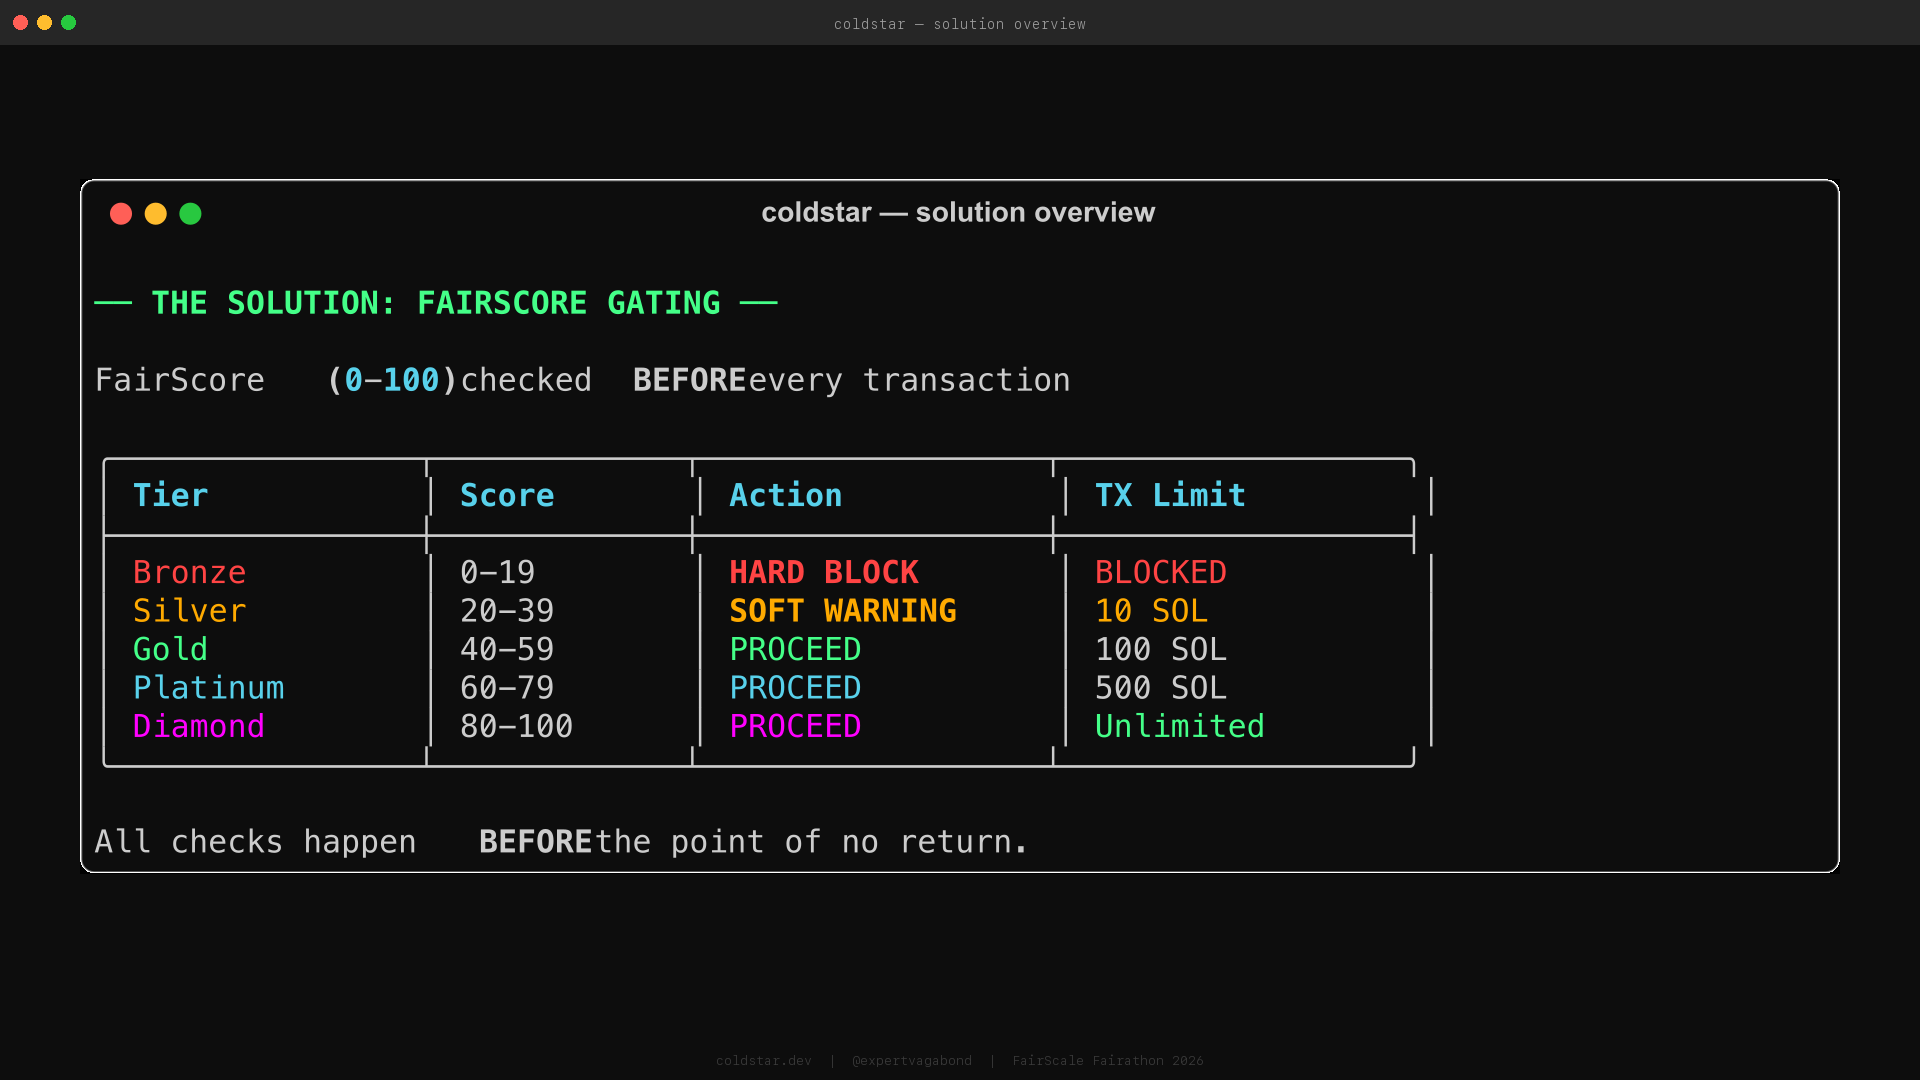
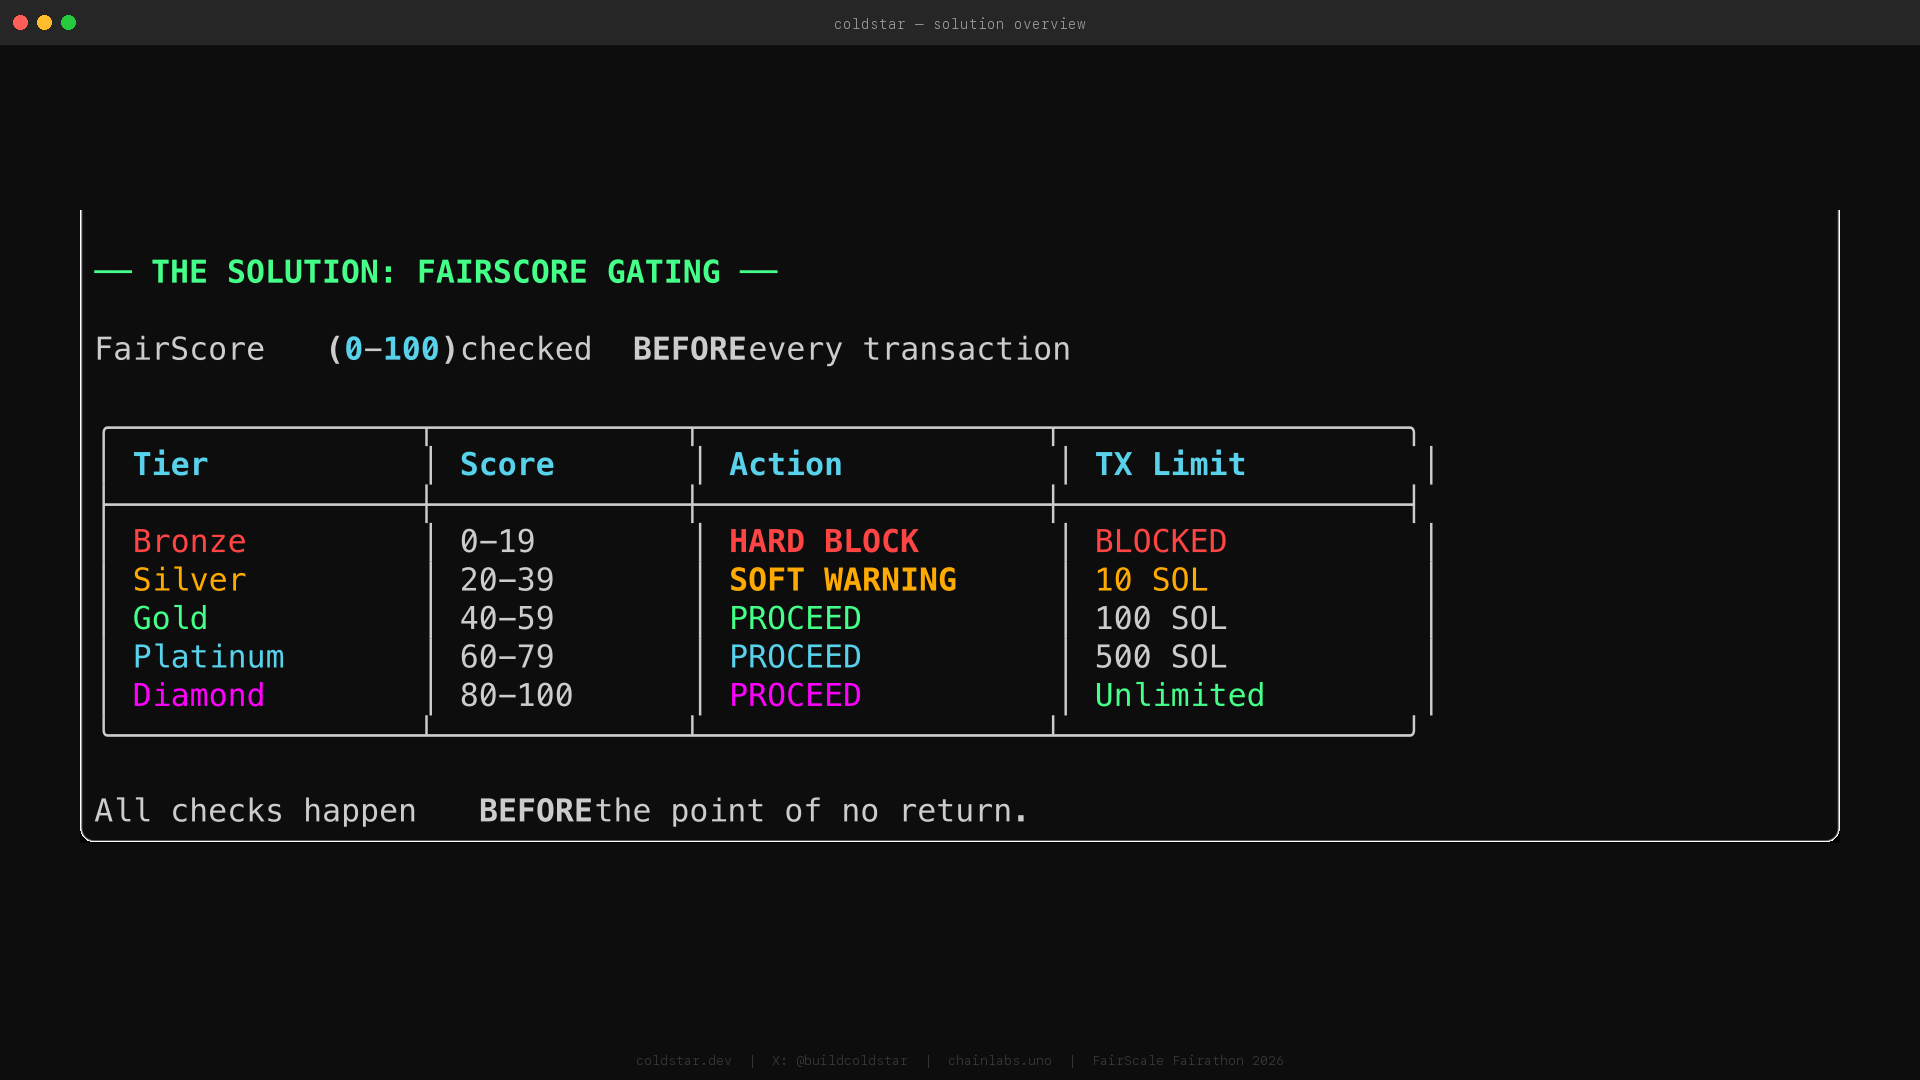
Rebrand to @buildcoldstar, remove personal name and Purple Squirrel Media
- All social handles now @buildcoldstar across video, docs, website, slides
- Removed "Built by Matthew Karsten" and "Purple Squirrel Media" references
- Added STIE Member + chainlabs.uno branding throughout
- Rebuilt demo video v2 with updated branding and Daniel UK voice

diff --git a/slides/index.html b/slides/index.html
@@ -256,8 +256,8 @@
         <div class="slide active">
             <h1>Coldstar + FairScore</h1>
             <div class="subtitle">Reputation-Gated Air-Gapped Cold Wallet for Solana</div>
-            <div class="author">Built by Matthew Karsten | @expertvagabond</div>
-            <div class="company">Purple Squirrel Media LLC</div>
+            <div class="author">@buildcoldstar | STIE Member | chainlabs.uno</div>
+            <div class="company">STIE Member | chainlabs.uno</div>
         </div>
 
         <!-- Slide 2: The Problem -->
@@ -382,8 +382,7 @@ Checking reputation for 5xGh...Tf8Y
                 <li>Recognized by <span class="solution-highlight">Superteam Earn</span></li>
                 <li>Live at <span class="terminal-info">coldstar.dev</span></li>
                 <li><span class="solution-highlight">2,500+ lines shipped</span>, DAO programs on devnet</li>
-                <li><span class="solution-highlight">Matthew Karsten</span> — 1,800+ commits, solo shipped in 10 days</li>
-                <li><span class="solution-highlight">Purple Squirrel Media LLC</span></li>
+                <li><span class="solution-highlight">STIE Member</span> — <a href="https://chainlabs.uno" style="color: #58d1eb;">chainlabs.uno</a></li>
             </ul>
         </div>
 
@@ -398,7 +397,7 @@ Checking reputation for 5xGh...Tf8Y
                     Live: <a href="https://coldstar.dev/colosseum" class="cta-link">coldstar.dev/colosseum</a>
                 </div>
                 <div style="margin-bottom: 1.5rem;">
-                    Twitter: <a href="https://twitter.com/expertvagabond" class="cta-link">@expertvagabond</a>
+                    X: <a href="https://x.com/buildcoldstar" class="cta-link">@buildcoldstar</a>
                 </div>
             </div>
             <div class="tagline">"The future of cold storage is intelligent."</div>

diff --git a/index.html b/index.html
@@ -783,7 +783,7 @@
         <div class="footer-note">
             <p>Made with ✦ for the Solana Agent Economy</p>
             <p style="margin-top: 10px;">Coldstar • FairScore Reputation Gating • Air-Gapped Security • Open Source (MIT License)</p>
-            <p style="margin-top: 10px; font-size: 0.9em;">Built by <a href="https://x.com/expertvagabond" target="_blank" style="color: #58d1eb; text-decoration: none;">Matthew Karsten</a> • <a href="https://purplesquirrelmedia.io" target="_blank" style="color: #58d1eb; text-decoration: none;">Purple Squirrel Media LLC</a></p>
+            <p style="margin-top: 10px; font-size: 0.9em;"><a href="https://x.com/buildcoldstar" target="_blank" style="color: #58d1eb; text-decoration: none;">@buildcoldstar</a> • STIE Member • <a href="https://chainlabs.uno" target="_blank" style="color: #58d1eb; text-decoration: none;">chainlabs.uno</a></p>
             <p style="margin-top: 5px; font-size: 0.85em; color: #555;"><a href="https://superteam.fun/earn/listing/fairathon/" target="_blank" style="color: #7B2FBE; text-decoration: none;">FairScale Fairathon</a> • <a href="https://colosseum.com/agent-hackathon/" target="_blank" style="color: #555; text-decoration: none;">Colosseum Agent Hackathon</a></p>
         </div>
     </footer>

diff --git a/video/build_video_v2.py b/video/build_video_v2.py
@@ -144,8 +144,12 @@ def composite_terminal_frame(content_png_path, output_path, window_title="coldst
     draw.text(((WIDTH - tw) // 2, (TITLEBAR_H - 14) // 2), window_title,
               fill=TITLEBAR_TEXT, font=title_font)
 
-    # Load and paste content
+    # Load content and crop Rich's built-in title bar to avoid double chrome
     content = Image.open(content_png_path)
+    # Rich SVG export adds a full terminal chrome bar (~8% of height) — crop it off
+    rich_titlebar_h = int(content.height * 0.09)
+    if content.height > 200:  # safety check
+        content = content.crop((0, rich_titlebar_h, content.width, content.height))
 
     # Scale content to fit within the frame
     max_w = WIDTH - PADDING * 2
@@ -167,7 +171,7 @@ def composite_terminal_frame(content_png_path, output_path, window_title="coldst
         brand_font = ImageFont.truetype("/System/Library/Fonts/SFNSMono.ttf", 13)
     except (OSError, IOError):
         brand_font = title_font
-    branding = "coldstar.dev  |  @expertvagabond  |  FairScale Fairathon 2026"
+    branding = "coldstar.dev  |  X: @buildcoldstar  |  chainlabs.uno  |  FairScale Fairathon 2026"
     bbox = draw.textbbox((0, 0), branding, font=brand_font)
     bw = bbox[2] - bbox[0]
     draw.text(((WIDTH - bw) // 2, HEIGHT - 28), branding, fill=BRANDING_COLOR, font=brand_font)
@@ -197,8 +201,8 @@ def render_title(c):
     c.print()
     c.print("[bold white]     Reputation-Gated Air-Gapped Cold Wallet for Solana[/]")
     c.print()
-    c.print("[dim]     Built by Matthew Karsten  •  Purple Squirrel Media[/]")
-    c.print("[dim]     @expertvagabond  •  coldstar.dev[/]")
+    c.print("[dim]     STIE Member  •  chainlabs.uno  •  coldstar.dev[/]")
+    c.print("[dim]     X: @buildcoldstar  •  Insta: @devsyrem[/]")
     c.print()
     c.print()
     c.print("[bold cyan]     FairScale Fairathon 2026  •  Colosseum Project #62[/]")
@@ -750,8 +754,8 @@ def render_live_api(c):
 @scene(
     "CTA",
     12,
-    "Coldstar is live at coldstar.dev. The code is open source on GitHub at "
-    "Expert Vagabond slash coldstar-colosseum. Follow at expert vagabond on X. "
+    "Coldstar is live at coldstar.dev. The code is open source on GitHub. "
+    "Follow build coldstar on X. STIE member, chainlabs.uno. "
     "The future of cold storage is intelligent. Thank you.",
     accent="#ff00ff",
 )
@@ -765,14 +769,15 @@ def render_cta(c):
     c.print()
     c.print("  [bold white]GitHub:[/]    [cyan]ExpertVagabond/coldstar-colosseum[/]")
     c.print()
-    c.print("  [bold white]Twitter:[/]   [cyan]@expertvagabond[/]")
+    c.print("  [bold white]X:[/]         [cyan]@buildcoldstar[/]")
+    c.print("  [bold white]Insta:[/]     [cyan]@devsyrem[/]")
     c.print()
+    c.print("  [bold white]STIE Member[/]  •  [cyan]chainlabs.uno[/]")
     c.print()
     c.print('  [bold white italic]"The future of cold storage is intelligent."[/]')
     c.print()
-    c.print()
     c.print("  [dim]FairScale Fairathon 2026  •  Colosseum Project #62[/]")
-    c.print("  [dim]Built by Matthew Karsten  •  Purple Squirrel Media LLC[/]")
+    c.print("  [dim]STIE Member  •  chainlabs.uno[/]")
     c.print()
 
 
@@ -788,7 +793,7 @@ def generate_voiceover(idx, text, duration):
     rate = int(target_wpm * 1.1)
 
     subprocess.run(
-        ["say", "-v", "Samantha", "-r", str(rate), "-o", aiff_path, text],
+        ["say", "-v", "Daniel", "-r", str(rate), "-o", aiff_path, text],
         check=True, capture_output=True,
     )
     subprocess.run(
@@ -800,19 +805,31 @@ def generate_voiceover(idx, text, duration):
 
 
 def generate_background_music(total_duration):
-    """Generate subtle ambient background music."""
+    """Generate faint ambient background music — warm pad with subtle movement."""
     music_path = os.path.join(AUDIO_DIR, "bgm.wav")
 
+    # Layer multiple harmonics for a warm ambient pad:
+    # A2 (110Hz) fundamental, E3 (165Hz) fifth, A1 (55Hz) sub-bass,
+    # C#3 (138.6Hz) major third, A3 (220Hz) octave
     cmd = [
         "ffmpeg", "-y",
         "-f", "lavfi", "-i", f"sine=frequency=110:duration={total_duration}",
         "-f", "lavfi", "-i", f"sine=frequency=165:duration={total_duration}",
-        "-f", "lavfi", "-i", f"sine=frequency=82.5:duration={total_duration}",
+        "-f", "lavfi", "-i", f"sine=frequency=55:duration={total_duration}",
+        "-f", "lavfi", "-i", f"sine=frequency=138.6:duration={total_duration}",
+        "-f", "lavfi", "-i", f"sine=frequency=220:duration={total_duration}",
         "-filter_complex",
-        f"[0]volume=0.02[a];[1]volume=0.012[b];[2]volume=0.008[d];"
-        f"[a][b][d]amix=inputs=3:duration=longest,"
-        f"lowpass=f=500,highpass=f=60,"
-        f"afade=t=in:st=0:d=4,afade=t=out:st={total_duration-4}:d=4[out]",
+        # Mix at very low volumes for faint ambient feel
+        f"[0]volume=0.012[a];"
+        f"[1]volume=0.008[b];"
+        f"[2]volume=0.006[d];"
+        f"[3]volume=0.005[e];"
+        f"[4]volume=0.004[f];"
+        f"[a][b][d][e][f]amix=inputs=5:duration=longest,"
+        # Warm filtering: cut harsh highs, keep body
+        f"lowpass=f=400,highpass=f=40,"
+        # Gentle fade in/out
+        f"afade=t=in:st=0:d=5,afade=t=out:st={total_duration-5}:d=5[out]",
         "-map", "[out]",
         "-ar", "44100", "-ac", "1",
         music_path,

diff --git a/video/build_video.py b/video/build_video.py
@@ -20,8 +20,8 @@ SLIDES = [
             "Reputation-Gated Air-Gapped Cold Wallet",
             "for Solana",
             "",
-            "Built by Matthew Karsten",
-            "@expertvagabond | Purple Squirrel Media",
+            "STIE Member | chainlabs.uno",
+            "@buildcoldstar | chainlabs.uno",
         ],
         "Coldstar is the first and only air-gapped Solana cold wallet with built-in reputation scoring. Every transaction is checked against FairScale's FairScore API before it crosses the air gap.",
         12,
@@ -183,12 +183,11 @@ SLIDES = [
             "  2,500+ lines shipped",
             "  DAO programs on devnet",
             "",
-            "  Matthew Karsten - Solo Founder",
+            "  STIE Member | chainlabs.uno",
             "  1,800+ commits across projects",
-            "  Purple Squirrel Media LLC",
             "  Built and shipped in 10-day sprint",
         ],
-        "Coldstar was built for the Colosseum Agent Hackathon as Project #62 and was recognized by Superteam Earn. The platform is live at coldstar.dev with over 2,500 lines of production Python and DAO programs deployed on Solana devnet. I'm Matthew Karsten, solo founder at Purple Squirrel Media. Over 1,800 commits across projects. Built and shipped Coldstar in a 10-day sprint.",
+        "Coldstar was built for the Colosseum Agent Hackathon as Project #62 and was recognized by Superteam Earn. The platform is live at coldstar.dev with over 2,500 lines of production Python and DAO programs deployed on Solana devnet. Over 1,800 commits across projects. Built and shipped Coldstar in a 10-day sprint.",
         13,
         "#0a0a0a",
         "#58d1eb",
@@ -202,7 +201,7 @@ SLIDES = [
             "",
             "  GitHub: ExpertVagabond/coldstar-colosseum",
             "",
-            "  Twitter: @expertvagabond",
+            "  Twitter: @buildcoldstar",
             "",
             "",
             '"The future of cold storage is intelligent."',
@@ -252,7 +251,7 @@ def create_slide_image(idx, title, body_lines, bg_color, accent_color):
         "-pointsize", "24",
         "-fill", "#444444",
         "-gravity", "South",
-        "-annotate", "+0+30", "coldstar.dev | @expertvagabond | FairScale Fairathon 2026",
+        "-annotate", "+0+30", "coldstar.dev | @buildcoldstar | FairScale Fairathon 2026",
         out_path,
     ]
     subprocess.run(cmd, check=True, capture_output=True)

diff --git a/docs/SUPERTEAM_SUBMISSION_FIELDS.md b/docs/SUPERTEAM_SUBMISSION_FIELDS.md
@@ -100,9 +100,9 @@ https://x.com/expertvagabond
 Matthew Karsten — Solo Founder & Full-Stack Developer
 
 GitHub: @ExpertVagabond
-Twitter/X: @expertvagabond
+Twitter/X: @buildcoldstar
 Email: MatthewKarstenConnects@gmail.com
-Company: Purple Squirrel Media LLC
+STIE Member | chainlabs.uno
 
 Built Coldstar as a solo developer during the 10-day Colosseum Agent Hackathon sprint (Project #62, submitted as Agent #127). Deep Solana ecosystem experience building with Jupiter, Pyth, Anchor, SPL tokens, and MCP agent integrations. Polyglot developer shipping production code in Python, TypeScript, Rust, Ruby, and Go. Track record of rapid execution — Coldstar went from zero to live deployment with FairScore integration, Jupiter swaps, Pyth price feeds, QR-code air-gap signing, and a Rich TUI dashboard in under two weeks.
 ```
@@ -163,7 +163,7 @@ As a cold wallet CLI tool targeting security-conscious Solana users, traction is
 - Full air-gap signing flow with QR code transfer between online and offline devices
 - Rich TUI dashboard with real-time portfolio, price feeds, and reputation badges
 - OpenAPI 3.0 documentation for FairScale API integration
-- Active on X/Twitter: @expertvagabond with Solana ecosystem engagement
+- Active on X/Twitter: @buildcoldstar with Solana ecosystem engagement
 
 User acquisition strategy: Solana developer community first (hackathon exposure) -> crypto security forums and cold wallet communities -> institutional DAO treasury managers needing reputation-gated signing.
 ```
@@ -188,7 +188,7 @@ User acquisition strategy: Solana developer community first (hackathon exposure)
 - [ ] **FairScale GitHub org:** Confirm whether repo must be forked into FairScale's GitHub org — this was explicitly mentioned in the listing requirements
 - [ ] **Demo video** recorded and uploaded (YouTube or Loom, 5 min max)
 - [ ] **Pitch deck** finalized with business viability section (revenue model, user acquisition path to 100/1K/10K users)
-- [ ] **Launch tweet thread** posted from @expertvagabond (draft in docs/LAUNCH_TWEETS.md)
+- [ ] **Launch tweet thread** posted from @buildcoldstar (draft in docs/LAUNCH_TWEETS.md)
 - [ ] **Analytics screenshots** captured after tweet thread gets engagement
 - [ ] **FairScale API key** obtained from https://sales.fairscale.xyz/ and tested
 - [ ] All form fields above filled in with final URLs

diff --git a/docs/FAIRSCORE_INTEGRATION.md b/docs/FAIRSCORE_INTEGRATION.md
@@ -671,13 +671,13 @@ AgentSecurityError: Agent transactions require Tier 3+ destination addresses
 
 **Document Version:** 1.0
 **Last Updated:** 2026-02-08
-**Maintainer:** Matthew Karsten (@expertvagabond)
+**Maintainer:** Matthew Karsten (@buildcoldstar)
 
 ```
 ╔═══════════════════════════════════════════════════════════════╗
 ║  "The most secure cold wallet is one that knows who it's     ║
 ║   talking to before the signature happens."                   ║
 ║                                                                ║
-║  — Purple Squirrel Media × Coldstar Team                      ║
+║  — Coldstar Team × chainlabs.uno                              ║
 ╚═══════════════════════════════════════════════════════════════╝
 ```

diff --git a/docs/LAUNCH_TWEETS.md b/docs/LAUNCH_TWEETS.md
@@ -228,7 +228,7 @@ Give us an upvote if this is the future of cold storage 🚀
 
 **Engagement tactics:**
 - Tag @FairScore, @ColossiumOrg, @Solana in Tweet 1
-- Request RT from Purple Squirrel Media accounts
+- Request RT from @buildcoldstar and related accounts
 - Cross-post to Farcaster, Lens Protocol
 - Pin Tweet 1 to Coldstar profile for duration of hackathon
 
@@ -278,8 +278,8 @@ If Tweet 1 underperforms, try these variants:
 ## Community Amplification
 
 **Request RTs from:**
-- @expertvagabond (personal account)
-- @squirrel_eth (Purple Squirrel Media)
+- @buildcoldstar (project account)
+- @buildcoldstar (project account)
 - @americanmonks (travel/tech crossover)
 - FairScore official account
 - Colosseum official account
@@ -300,7 +300,7 @@ If Tweet 1 underperforms, try these variants:
 
 **Document Version:** 1.0
 **Created:** 2026-02-08
-**Author:** Matthew Karsten (@expertvagabond)
+**Author:** Matthew Karsten (@buildcoldstar)
 **Campaign Code:** CS-FS-LAUNCH-001
 
 ```

diff --git a/README.md b/README.md
@@ -465,8 +465,8 @@ MIT License - See [LICENSE](LICENSE) for details.
 
 ## 💬 Community
 
-**Built by**: Matthew Karsten ([@expertvagabond](https://x.com/expertvagabond))
-**Company**: Purple Squirrel Media LLC
+**X**: [@buildcoldstar](https://x.com/buildcoldstar) | STIE Member
+**STIE Member** | [chainlabs.uno](https://chainlabs.uno)
 **Hackathons**: Colosseum Agent Hackathon (Project #62) + FairScale Fairathon
 
 <p align="center">
